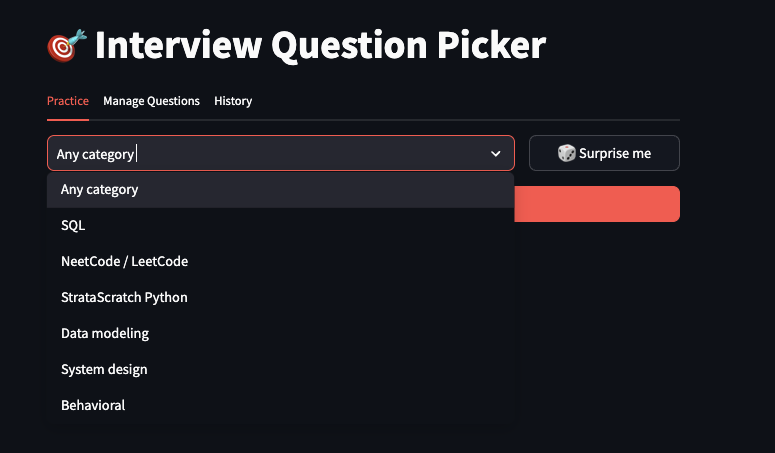
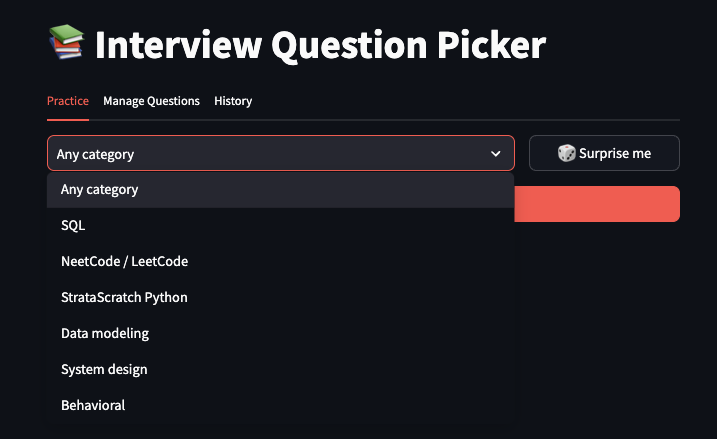
screenshot changes

diff --git a/app.py b/app.py
@@ -31,8 +31,8 @@ if "confirm_delete" not in st.session_state:
     st.session_state.confirm_delete = None
 
 # --- App layout ---
-st.set_page_config(page_title="Interview Question Picker", page_icon="🎯", layout="centered")
-st.title("🎯 Interview Question Picker")
+st.set_page_config(page_title=" Interview Question Picker", page_icon="📚", layout="centered")
+st.title("📚 Interview Question Picker")
 
 practice_tab, manage_tab, history_tab = st.tabs(["Practice", "Manage Questions", "History"])
 